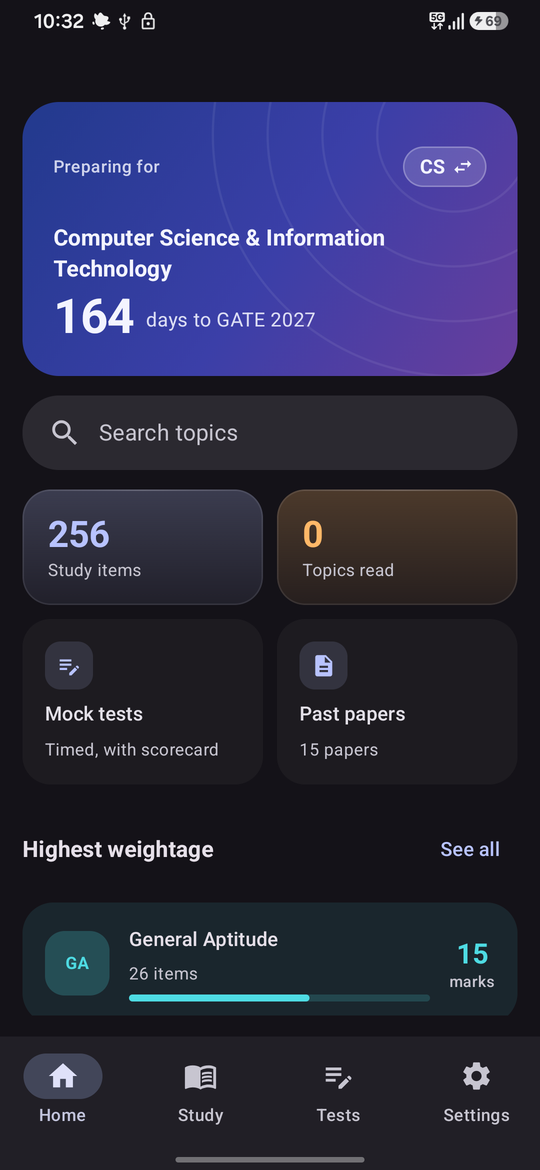
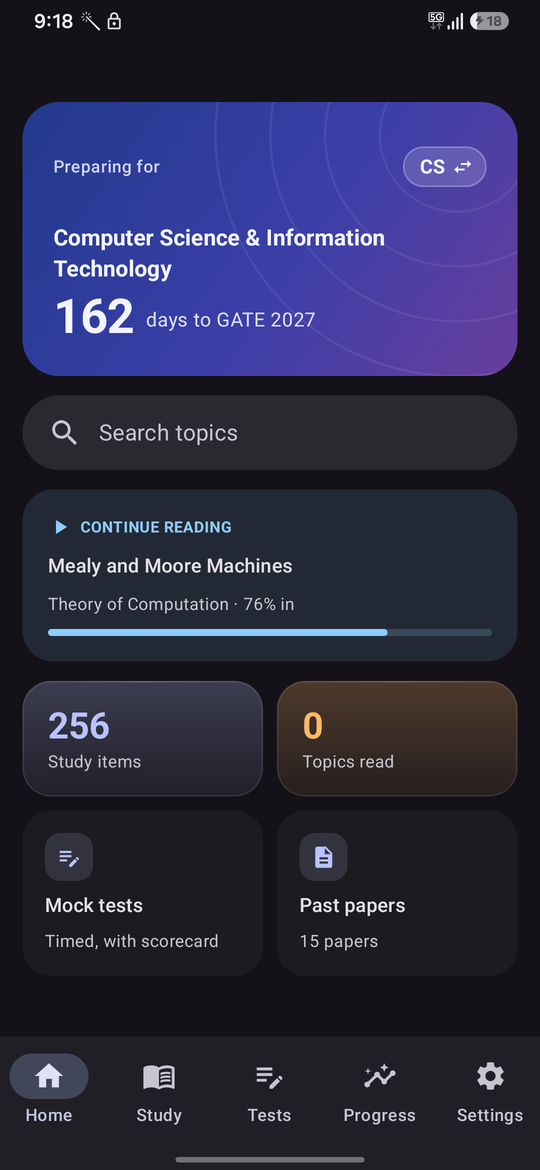
Refresh the screenshots, and show what the app now does
The set in the README predated both new features, so the two things worth
looking at -- the recommended set leading the Tests tab, and the account
screen -- were the two things it did not show. Taken on an SM-E346B, with
the app signed in to a local instance of the sync API.

Progress gets a place as well. It is the screen that answers "which subject
is costing me marks", and leaving it out of the README undersold the one
part of the app that does more than show questions.

diff --git a/README.md b/README.md
@@ -24,10 +24,12 @@ papers, which are not kept in the repository — see **Content pipeline** below.
 
 | | | |
 |:--:|:--:|:--:|
-| <img src="docs/screenshots/home.png" width="240"> | <img src="docs/screenshots/subjects.png" width="240"> | <img src="docs/screenshots/practice.png" width="240"> |
-| **Home** — resume where you stopped | **Study** — subjects by paper weightage | **Practice** — a subject set, then topic by topic |
-| <img src="docs/screenshots/tests.png" width="240"> | <img src="docs/screenshots/player.png" width="240"> | <img src="docs/screenshots/scorecard.png" width="240"> |
-| **Tests** — mixed papers lead | **Player** — the marking rule on every question | **Result** — scored subject by subject |
+| <img src="docs/screenshots/home.png" width="240"> | <img src="docs/screenshots/tests.png" width="240"> | <img src="docs/screenshots/account.png" width="240"> |
+| **Home** — resume where you stopped | **Tests** — the set the app chose, first | **Account** — optional, and it says so |
+| <img src="docs/screenshots/player.png" width="240"> | <img src="docs/screenshots/scorecard.png" width="240"> | <img src="docs/screenshots/progress.png" width="240"> |
+| **Player** — the marking rule on every question | **Result** — scored subject by subject | **Progress** — which subjects cost marks |
+| <img src="docs/screenshots/subjects.png" width="240"> | <img src="docs/screenshots/practice.png" width="240"> | <img src="docs/screenshots/papers.png" width="240"> |
+| **Study** — subjects by paper weightage | **Practice** — a subject set, then topic by topic | **Papers** — previous years with answer keys |
 
 ## What it does
 
@@ -363,7 +365,6 @@ Three rules run through all of them:
 
 <p align="center">
   <img src="docs/screenshots/palette.png" width="240">
-  <img src="docs/screenshots/papers.png" width="240">
 </p>
 
 A mixed paper gets **one section per subject**, so the scorecard reports a score
